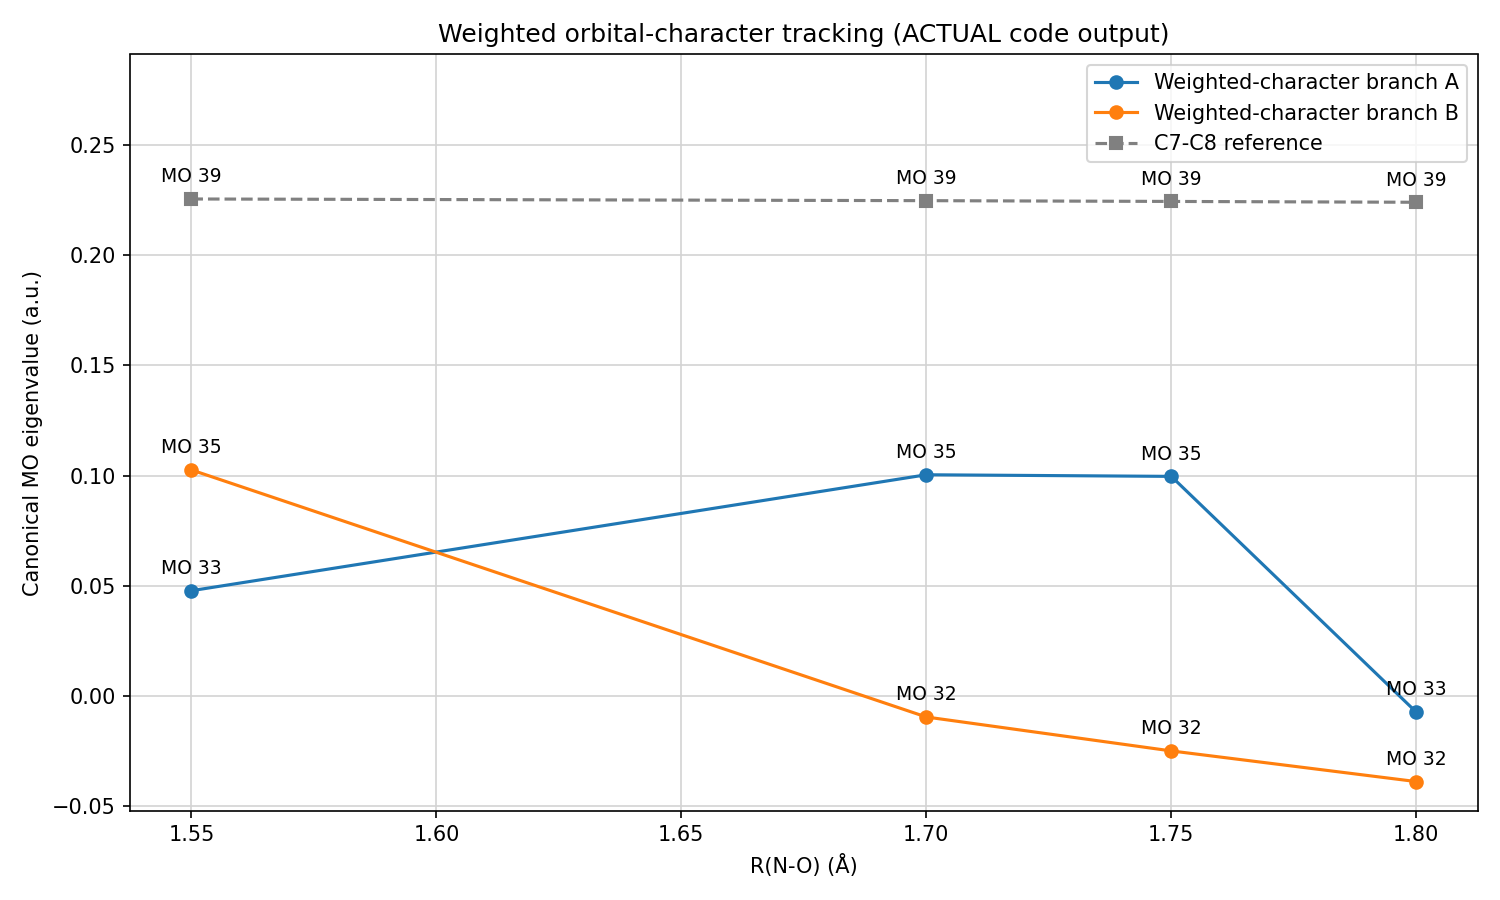
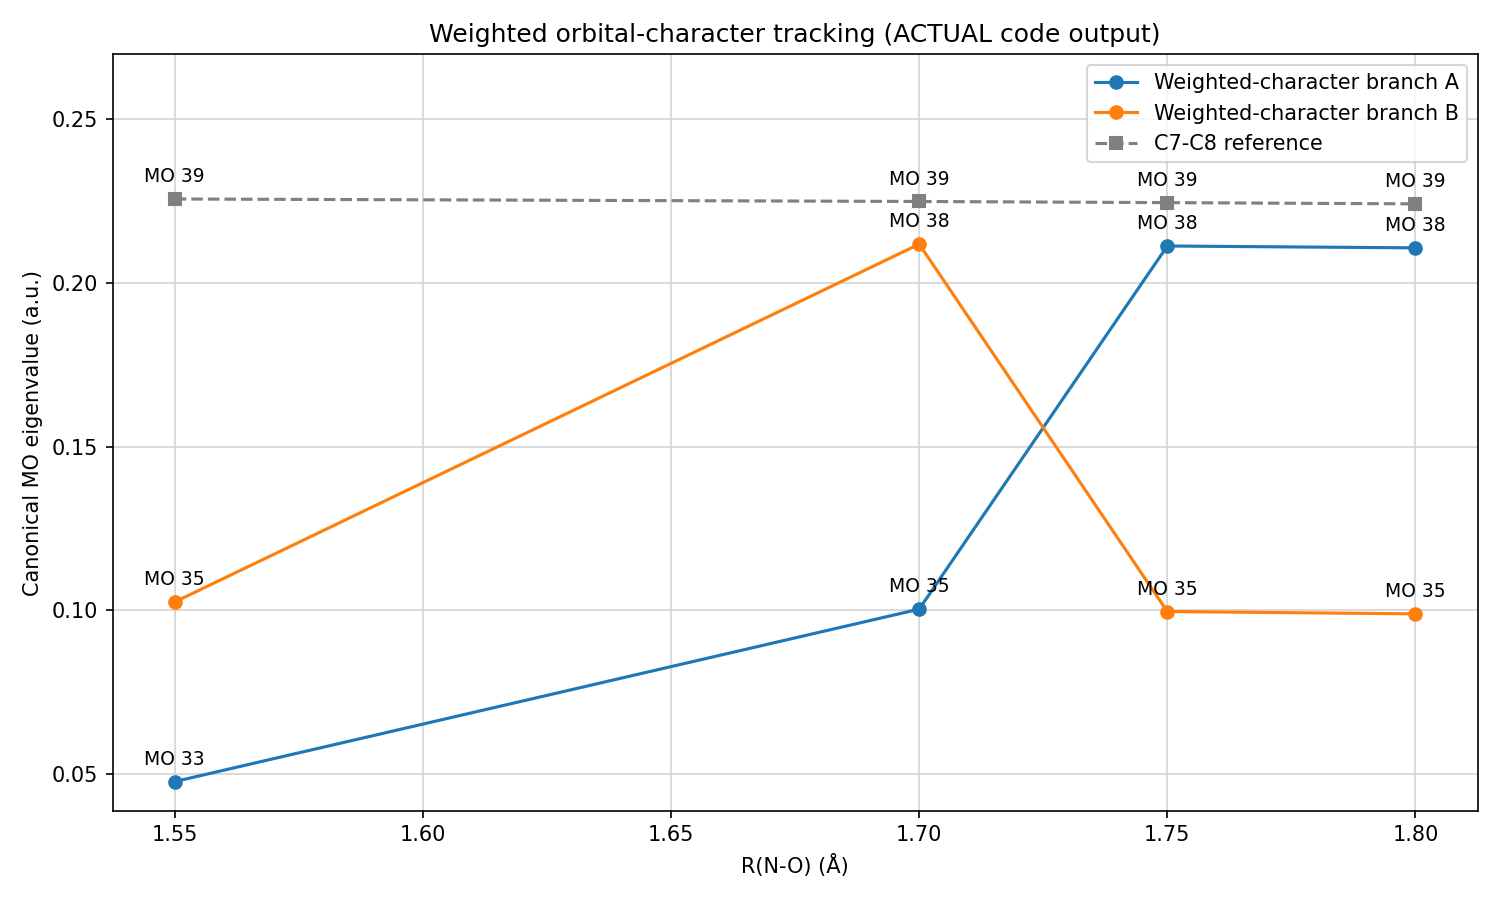
restricted selection to E>0

diff --git a/beckmann/dft/branch_tracking.py b/beckmann/dft/branch_tracking.py
@@ -156,13 +156,29 @@ def track_branches(
     logs, following handout Section 3's similarity-based reassignment instead of
     MO index or single-largest-coefficient.
 
-    At each geometry, the candidate pair is the top-2 MOs by w_target (matches the
-    handout's own seeding rule at the first point, applied at every point since
-    family weight is the ranking criterion throughout). At the first geometry,
-    candidates become branch A (higher w_target) and B directly. At every later
-    geometry, S_direct = S(A_old,cand1)+S(B_old,cand2) is compared against
-    S_swapped = S(A_old,cand2)+S(B_old,cand1) (_signed_dot() for S), and whichever
-    total is larger determines which candidate continues which branch.
+    At each geometry, the candidate pair is the top-2 MOs by w_target AMONG THOSE
+    WITH POSITIVE CANONICAL ENERGY, not the full virtual manifold. This positive-
+    energy filter is an empirical finding, not something either handout states
+    explicitly -- the handout's own virtual-orbital window is relative to the LUMO
+    (0 < eps_k - eps_LUMO <= 0.4 a.u.), which virtual_window() already enforces on
+    every MO passed in here; requiring the absolute eps_k > 0 on top of that is a
+    stricter, separate condition. Without it, top-2-by-w_target over the full
+    manifold lets a persistent, structurally unrelated MO (the N-O 'activation
+    coordinate' antibond, always negative-energy in the s2-s4 range of the
+    reference case) hijack a candidate slot and crowd out the true branch member --
+    see the plan this was built from for the full characterization. WITH the
+    filter, this reproduces the reference case's Section 5 table exactly at all 4
+    points (branch identity AND A/B order) -- but that's one 4-point validation,
+    not independent confirmation this is Tetiana's actual selection rule. Treat as
+    provisional until confirmed with her, especially before extending to molecules
+    where a candidate MO's energy sign relative to this cutoff isn't yet checked.
+
+    At the first geometry, candidates become branch A (higher w_target) and B
+    directly. At every later geometry, S_direct = S(A_old,cand1)+S(B_old,cand2) is
+    compared against S_swapped = S(A_old,cand2)+S(B_old,cand1) (_signed_dot() for
+    S), and whichever total is larger determines which candidate continues which
+    branch -- this comparison logic is unchanged from before the positive-energy
+    filter was added.
 
     Returns one row per scan point: {mo_A, E_A, f_CC_A, f_CN_A, mo_B, E_B,
     f_CC_B, f_CN_B}. E_* is in Hartree (convert with HARTREE_TO_EV for plotting)."""
@@ -179,7 +195,8 @@ def track_branches(
     a_mo = b_mo = None
     for log_path in scan_logs:
         weights = extract_family_weights(log_path, c1_atom, cn_c_atom, cn_n_atom)
-        by_target = sorted(weights, key=lambda m: m["w_target"], reverse=True)
+        candidates = [m for m in weights if m["energy"] > 0]
+        by_target = sorted(candidates, key=lambda m: m["w_target"], reverse=True)
         cand1, cand2 = by_target[0], by_target[1]
 
         if a_mo is None:

diff --git a/scripts/dft/validate_branch_tracking.py b/scripts/dft/validate_branch_tracking.py
@@ -4,12 +4,14 @@ Validate beckmann.dft.branch_tracking against reference logs
 
 Gate 1 (family-weight extraction, corrected/broadened per
 Detailed_Orbital_Character_Exchange_Handout.docx) is checked against Section 6's
-8 worked examples. Gate 2 (branch identity / candidate selection) does NOT
-currently reproduce Section 5's table -- a third MO (32, near-pure N17-O18
-"bond-breaking" character) wins top-2-by-w_target at s2/s3/s4 and crowds out the
-true C-C-side branch member (MO38); see the module docstring / conversation
-history for the full characterization. That gap is not hidden or corrected
-here -- both diagrams below are generated so the difference is visible:
+8 worked examples. Gate 2 (branch identity / candidate selection) reproduces
+Section 5's table exactly at all 4 points now that track_branches()'s candidate
+selection is restricted to positive-canonical-energy MOs -- see that function's
+docstring for why (a negative-energy N-O 'activation coordinate' MO was
+previously hijacking the ranking) and the caveat that this filter is an
+empirical finding validated only against this one 4-point case, not yet
+independently confirmed as Tetiana's actual rule. Both diagrams are still
+generated so the two can be compared directly:
   - branch_tracking_reference_v2.png       : track_branches()'s ACTUAL output
   - branch_tracking_reference_v2_expected.png : Section 5's ground-truth table,
     plotted the same way, for direct visual comparison
